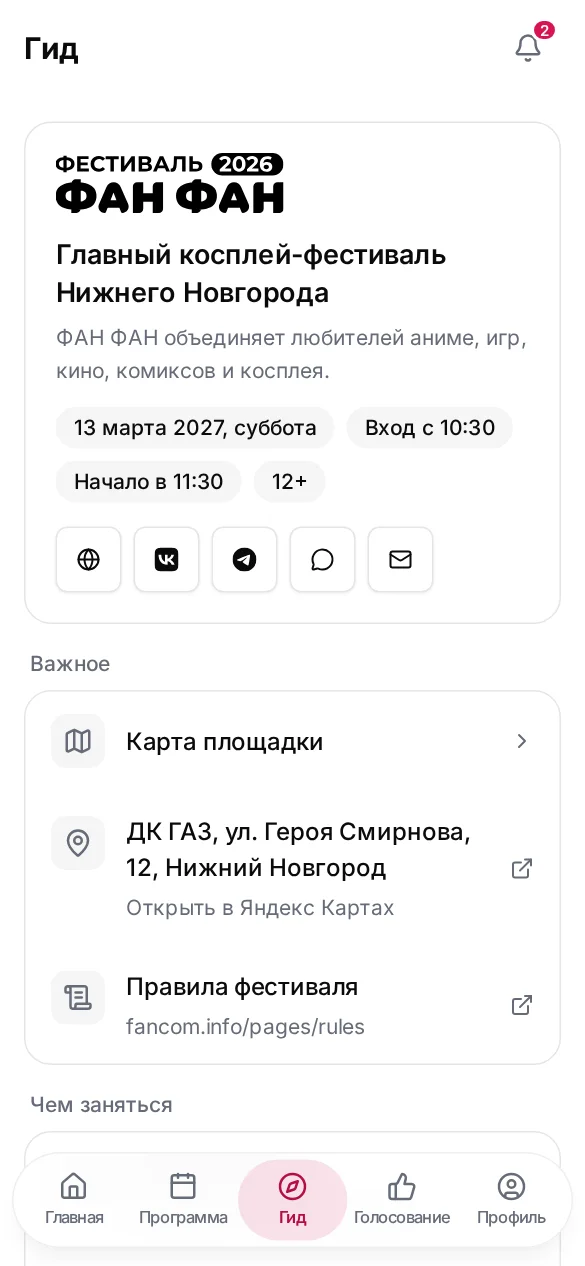
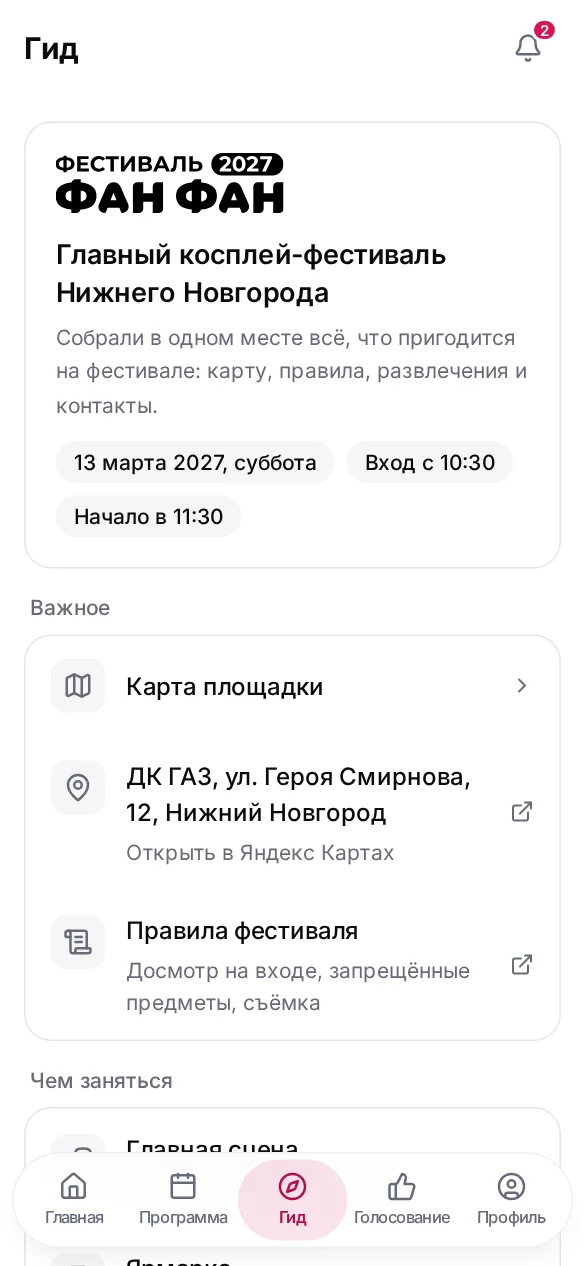
feat(frontend): make the guide hub say what it holds and link articles to app tabs (#958)
* feat(frontend): tidy the guide hub and point articles at the app's tabs

- Logo year badge reads 2027 (the festival is on 13 March 2027); the 7 is
  drawn to the badge font's metrics since the SVG has no 7 glyph.
- Drop the 12+ chip: alone it reads as "no under-12s", while the rules let
  children in with an adult.
- Move the icon-only social buttons out of the hero into a labelled
  «На связи» group at the bottom; they are rarely needed on the day.
- Rules row gets a summary of its visitor-relevant parts instead of a URL.
- Stage and stands articles keep only what a visitor can use; the stage
  article links to the programme and voting tabs, the fair article to the map.
  Article links are underlined so colour alone doesn't mark them (WCAG 1.4.1).

Claude-Session: https://claude.ai/code/session_01SpMDpM6caGthuTxBNmS68S

* feat(frontend): say what the guide tab holds in its hero

The festival blurb repeated what anyone with the app already knows; the hero
line now tells a visitor what the tab collects: map, rules, things to do and
contacts.

Claude-Session: https://claude.ai/code/session_01SpMDpM6caGthuTxBNmS68S

* fix(frontend): link voting from the contests article, not the stage one

In-app voting covers the off-stage contests (drawings, photos, music videos),
so the «Голосование» link belongs with them.

Claude-Session: https://claude.ai/code/session_01SpMDpM6caGthuTxBNmS68S

---------

diff --git a/frontend/src/routes/(app)/guide/+page.svelte b/frontend/src/routes/(app)/guide/+page.svelte
@@ -18,7 +18,6 @@
 	import logo from '#lib/assets/logo.svg';
 	import MenuGroup from '#lib/components/MenuGroup.svelte';
 	import MenuLink from '#lib/components/MenuLink.svelte';
-	import { Button } from '#lib/components/ui/button/index.js';
 	import * as Item from '#lib/components/ui/item/index.js';
 	import { FALLBACK_CONFIG } from '#lib/constants/festival.js';
 	import { guideArticles } from '#lib/data/guideArticles.js';
@@ -29,37 +28,63 @@
 	// https://yandex.com/dev/yandex-apps-launch-maps/doc/en/concepts/yandexmaps-web
 	const yandexMapsUrl = `https://yandex.ru/maps/?text=${encodeURIComponent('Нижний Новгород, ДК ГАЗ')}`;
 
-	interface SocialLink {
+	interface ContactLink {
 		href: string;
 		label: () => string;
+		/** The handle or address, so a row is recognisable without its icon. */
+		handle: string;
 		icon: Component;
 		/** mailto: stays in the app's tab; web links open elsewhere. */
 		external: boolean;
 	}
 
-	const socialLinks: SocialLink[] = [
-		{ href: 'https://fancom.info/', label: m.guide_website, icon: Globe, external: true },
-		{ href: 'https://vk.com/ffest_nn', label: m.guide_vk, icon: IconVk, external: true },
+	const contactLinks: ContactLink[] = [
+		{
+			href: 'https://fancom.info/',
+			label: m.guide_website,
+			handle: 'fancom.info',
+			icon: Globe,
+			external: true
+		},
+		{
+			href: 'https://vk.com/ffest_nn',
+			label: m.guide_vk,
+			handle: 'vk.com/ffest_nn',
+			icon: IconVk,
+			external: true
+		},
 		{
 			href: 'https://t.me/fanfan_fest_news',
 			label: m.guide_telegram,
+			handle: 't.me/fanfan_fest_news',
 			icon: IconTelegram,
 			external: true
 		},
-		{ href: 'https://max.ru/ffest_nn', label: m.guide_max, icon: MessageCircle, external: true },
-		{ href: 'mailto:orgcom.fan@mail.ru', label: m.guide_email, icon: Mail, external: false }
+		{
+			href: 'https://max.ru/ffest_nn',
+			label: m.guide_max,
+			handle: 'max.ru/ffest_nn',
+			icon: MessageCircle,
+			external: true
+		},
+		{
+			href: 'mailto:orgcom.fan@mail.ru',
+			label: m.guide_email,
+			handle: 'orgcom.fan@mail.ru',
+			icon: Mail,
+			external: false
+		}
 	];
 
 	// The date and start come from the public config organizers edit, the same source
 	// as Home, so the two tabs can't disagree; the cached copy or the shipped
-	// defaults fill in offline. Doors and the age limit aren't in the config.
+	// defaults fill in offline. The doors time isn't in the config.
 	const configQuery = createQuery(() => getPublicConfigOptions());
 	const config = $derived(configQuery.data ?? FALLBACK_CONFIG);
 	const facts = $derived([
 		formatFestivalDate(config.festival_start),
 		m.guide_doors(),
-		m.guide_start({ time: formatFestivalTime(config.festival_start) }),
-		m.guide_age()
+		m.guide_start({ time: formatFestivalTime(config.festival_start) })
 	]);
 </script>
 
@@ -67,10 +92,21 @@
 	<title>{m.document_title({ title: m.nav_guide() })}</title>
 </svelte:head>
 
-{#snippet externalRow(href: string, Icon: Component, title: string, description: string)}
+{#snippet linkRow(
+	href: string,
+	Icon: Component,
+	title: string,
+	description: string,
+	external = true
+)}
 	<Item.Root class="rounded-none">
 		{#snippet child({ props })}
-			<a {href} target="_blank" rel="noopener noreferrer" {...props}>
+			<a
+				{href}
+				target={external ? '_blank' : undefined}
+				rel={external ? 'noopener noreferrer' : undefined}
+				{...props}
+			>
 				<Item.Media class="size-9 rounded-lg bg-muted text-muted-foreground">
 					<Icon class="size-5" aria-hidden="true" />
 				</Item.Media>
@@ -78,16 +114,18 @@
 					<Item.Title class="text-base">{title}</Item.Title>
 					<Item.Description>{description}</Item.Description>
 				</Item.Content>
-				<Item.Actions>
-					<ExternalLink class="size-4 text-muted-foreground" aria-hidden="true" />
-					<span class="sr-only">({m.guide_opens_in_new_tab()})</span>
-				</Item.Actions>
+				{#if external}
+					<Item.Actions>
+						<ExternalLink class="size-4 text-muted-foreground" aria-hidden="true" />
+						<span class="sr-only">({m.guide_opens_in_new_tab()})</span>
+					</Item.Actions>
+				{/if}
 			</a>
 		{/snippet}
 	</Item.Root>
 {/snippet}
 
-<!-- A hub, like /profile: the intro with the facts and social links, then grouped
+<!-- A hub, like /profile: the intro with the facts, then grouped
      rows that each lead somewhere. Grouped rows with a trailing indicator are the
      phone-settings shape for "drill in"
      (https://developer.apple.com/design/human-interface-guidelines/lists-and-tables),
@@ -104,25 +142,6 @@
 				<li class="rounded-full bg-muted px-3 py-1 text-sm font-medium">{fact}</li>
 			{/each}
 		</ul>
-		<ul class="mt-4 flex flex-wrap gap-2">
-			{#each socialLinks as link (link.href)}
-				{@const Icon = link.icon}
-				<li>
-					<Button
-						variant="outline"
-						size="icon"
-						href={link.href}
-						target={link.external ? '_blank' : undefined}
-						rel={link.external ? 'noopener noreferrer' : undefined}
-					>
-						<Icon aria-hidden="true" />
-						<span class="sr-only">
-							{link.label()}{link.external ? ` (${m.guide_opens_in_new_tab()})` : ''}
-						</span>
-					</Button>
-				</li>
-			{/each}
-		</ul>
 	</section>
 
 	<section aria-labelledby="guide-important" class="flex flex-col gap-2">
@@ -131,17 +150,17 @@
 		</h2>
 		<MenuGroup>
 			<MenuLink href="guide/map" label={m.nav_map()} icon={MapIcon} />
-			{@render externalRow(
+			{@render linkRow(
 				yandexMapsUrl,
 				MapPin,
 				`${m.guide_venue_name()}, ${m.guide_venue_address()}`,
 				m.guide_open_in_yandex_maps()
 			)}
-			{@render externalRow(
+			{@render linkRow(
 				'https://fancom.info/pages/rules',
 				ScrollText,
 				m.guide_rules(),
-				'fancom.info/pages/rules'
+				m.guide_rules_description()
 			)}
 		</MenuGroup>
 	</section>
@@ -158,6 +177,18 @@
 					description={article.description}
 					icon={article.icon}
 				/>
+			{/each}
+		</MenuGroup>
+	</section>
+
+	<!-- Rarely needed on the day, so below the activities rather than in the hero. -->
+	<section aria-labelledby="guide-contacts" class="flex flex-col gap-2">
+		<h2 id="guide-contacts" class="px-1 text-sm font-medium text-muted-foreground">
+			{m.guide_contacts_heading()}
+		</h2>
+		<MenuGroup>
+			{#each contactLinks as link (link.href)}
+				{@render linkRow(link.href, link.icon, link.label(), link.handle, link.external)}
 			{/each}
 		</MenuGroup>
 	</section>

diff --git a/frontend/src/routes/(app)/guide/[slug]/+page.svelte b/frontend/src/routes/(app)/guide/[slug]/+page.svelte
@@ -12,9 +12,10 @@
 	<title>{m.document_title({ title: data.article.title })}</title>
 </svelte:head>
 
-<!-- The markdown renders bare elements, so the spacing and list style come from here. -->
+<!-- The markdown renders bare elements, so the spacing, list and link style come from here.
+     Links stay underlined: colour alone must not mark them (WCAG 1.4.1). -->
 <article
-	class="mx-auto w-full max-w-2xl rounded-2xl border bg-card p-5 leading-relaxed sm:p-6 [&_h2]:mt-6 [&_h2]:text-base [&_h2]:leading-snug [&_h2]:font-semibold sm:[&_h2]:text-lg [&_li]:mt-1.5 [&_p]:mt-3 [&_p:first-child]:mt-0 [&_ul]:mt-3 [&_ul]:list-disc [&_ul]:ps-5"
+	class="mx-auto w-full max-w-2xl rounded-2xl border bg-card p-5 leading-relaxed sm:p-6 [&_a]:font-medium [&_a]:text-primary [&_a]:underline [&_a]:underline-offset-4 [&_h2]:mt-6 [&_h2]:text-base [&_h2]:leading-snug [&_h2]:font-semibold sm:[&_h2]:text-lg [&_li]:mt-1.5 [&_p]:mt-3 [&_p:first-child]:mt-0 [&_ul]:mt-3 [&_ul]:list-disc [&_ul]:ps-5"
 >
 	<Content />
 </article>

diff --git a/frontend/src/content/guide/stage.md b/frontend/src/content/guide/stage.md
@@ -5,7 +5,7 @@ icon: stage
 order: 1
 ---
 
-Выступления идут на одной сцене. Что и когда выходит, смотри во вкладке «Программа».
+Выступления идут на одной сцене. Что и когда выходит, смотри во вкладке [«Программа»](/schedule).
 
 ## Дефиле
 
@@ -21,12 +21,12 @@ order: 1
 
 ## Постановки
 
-- Сценическая постановка — инсценировка по собственному сценарию или фрагмент аниме, игры, фильма или книги. До 10 минут.
-- Танцевальная постановка — каверы на корейскую хореографию и современные танцы, в том числе в костюмах персонажей. От 2 человек, до 5 минут.
+- Сценическая постановка — инсценировка по собственному сценарию или фрагмент аниме, игры, фильма или книги.
+- Танцевальная постановка — каверы на корейскую хореографию и современные танцы, в том числе в костюмах персонажей.
 
 ## Гран-при
 
-В нём участвуют те, кто выступает в одиночных дефиле и прошёл смотр костюма жюри. После своего блока они выходят на сцену, чтобы жюри рассмотрело костюм вблизи.
+Главная награда фестиваля. За неё борются лучшие костюмы одиночных дефиле.
 
 ## Вне конкурса
 

diff --git a/frontend/src/content/guide/contests.md b/frontend/src/content/guide/contests.md
@@ -5,7 +5,7 @@ icon: contests
 order: 5
 ---
 
-Работы показывают в холлах фестиваля и в группе ВКонтакте. Победителей выбирают зрители.
+Работы показывают в холлах фестиваля и в группе ВКонтакте. Победителей выбирают зрители — голосуй во вкладке [«Голосование»](/voting).
 
 - Конкурс рисунка — рисунки в любой технике на тему аниме, игр, комиксов, фантастики и кино.
 - Конкурс музыкальных видео — клипы AMV, FMV и GMV на материалах аниме, игр и фильмов.

diff --git a/frontend/src/content/guide/stands.md b/frontend/src/content/guide/stands.md
@@ -5,7 +5,7 @@ icon: stands
 order: 4
 ---
 
-Команды из 3–10 человек, минимум трое из них в образах, делают уголок любимой вселенной: декорации, активности, сувениры и интерактивы.
+Команды фанатов в образах делают уголок любимой вселенной: декорации, активности, сувениры и интерактивы.
 
 На каждом стенде не меньше трёх интерактивов по его теме. Они идут с момента, когда пускают посетителей, и до закрытия стенда. Закрываются стенды в 19:00.
 

diff --git a/frontend/src/content/guide/fair.md b/frontend/src/content/guide/fair.md
@@ -7,4 +7,4 @@ order: 2
 
 Почти 500&nbsp;м² магазинов и мастеров авторских изделий ручной работы для любителей фантастики, игр и аниме.
 
-Продавцы торгуют до 19:30. Где ярмарка находится в здании, смотри на карте.
+Продавцы торгуют до 19:30. Где ярмарка находится в здании, смотри на [карте площадки](/guide/map).
